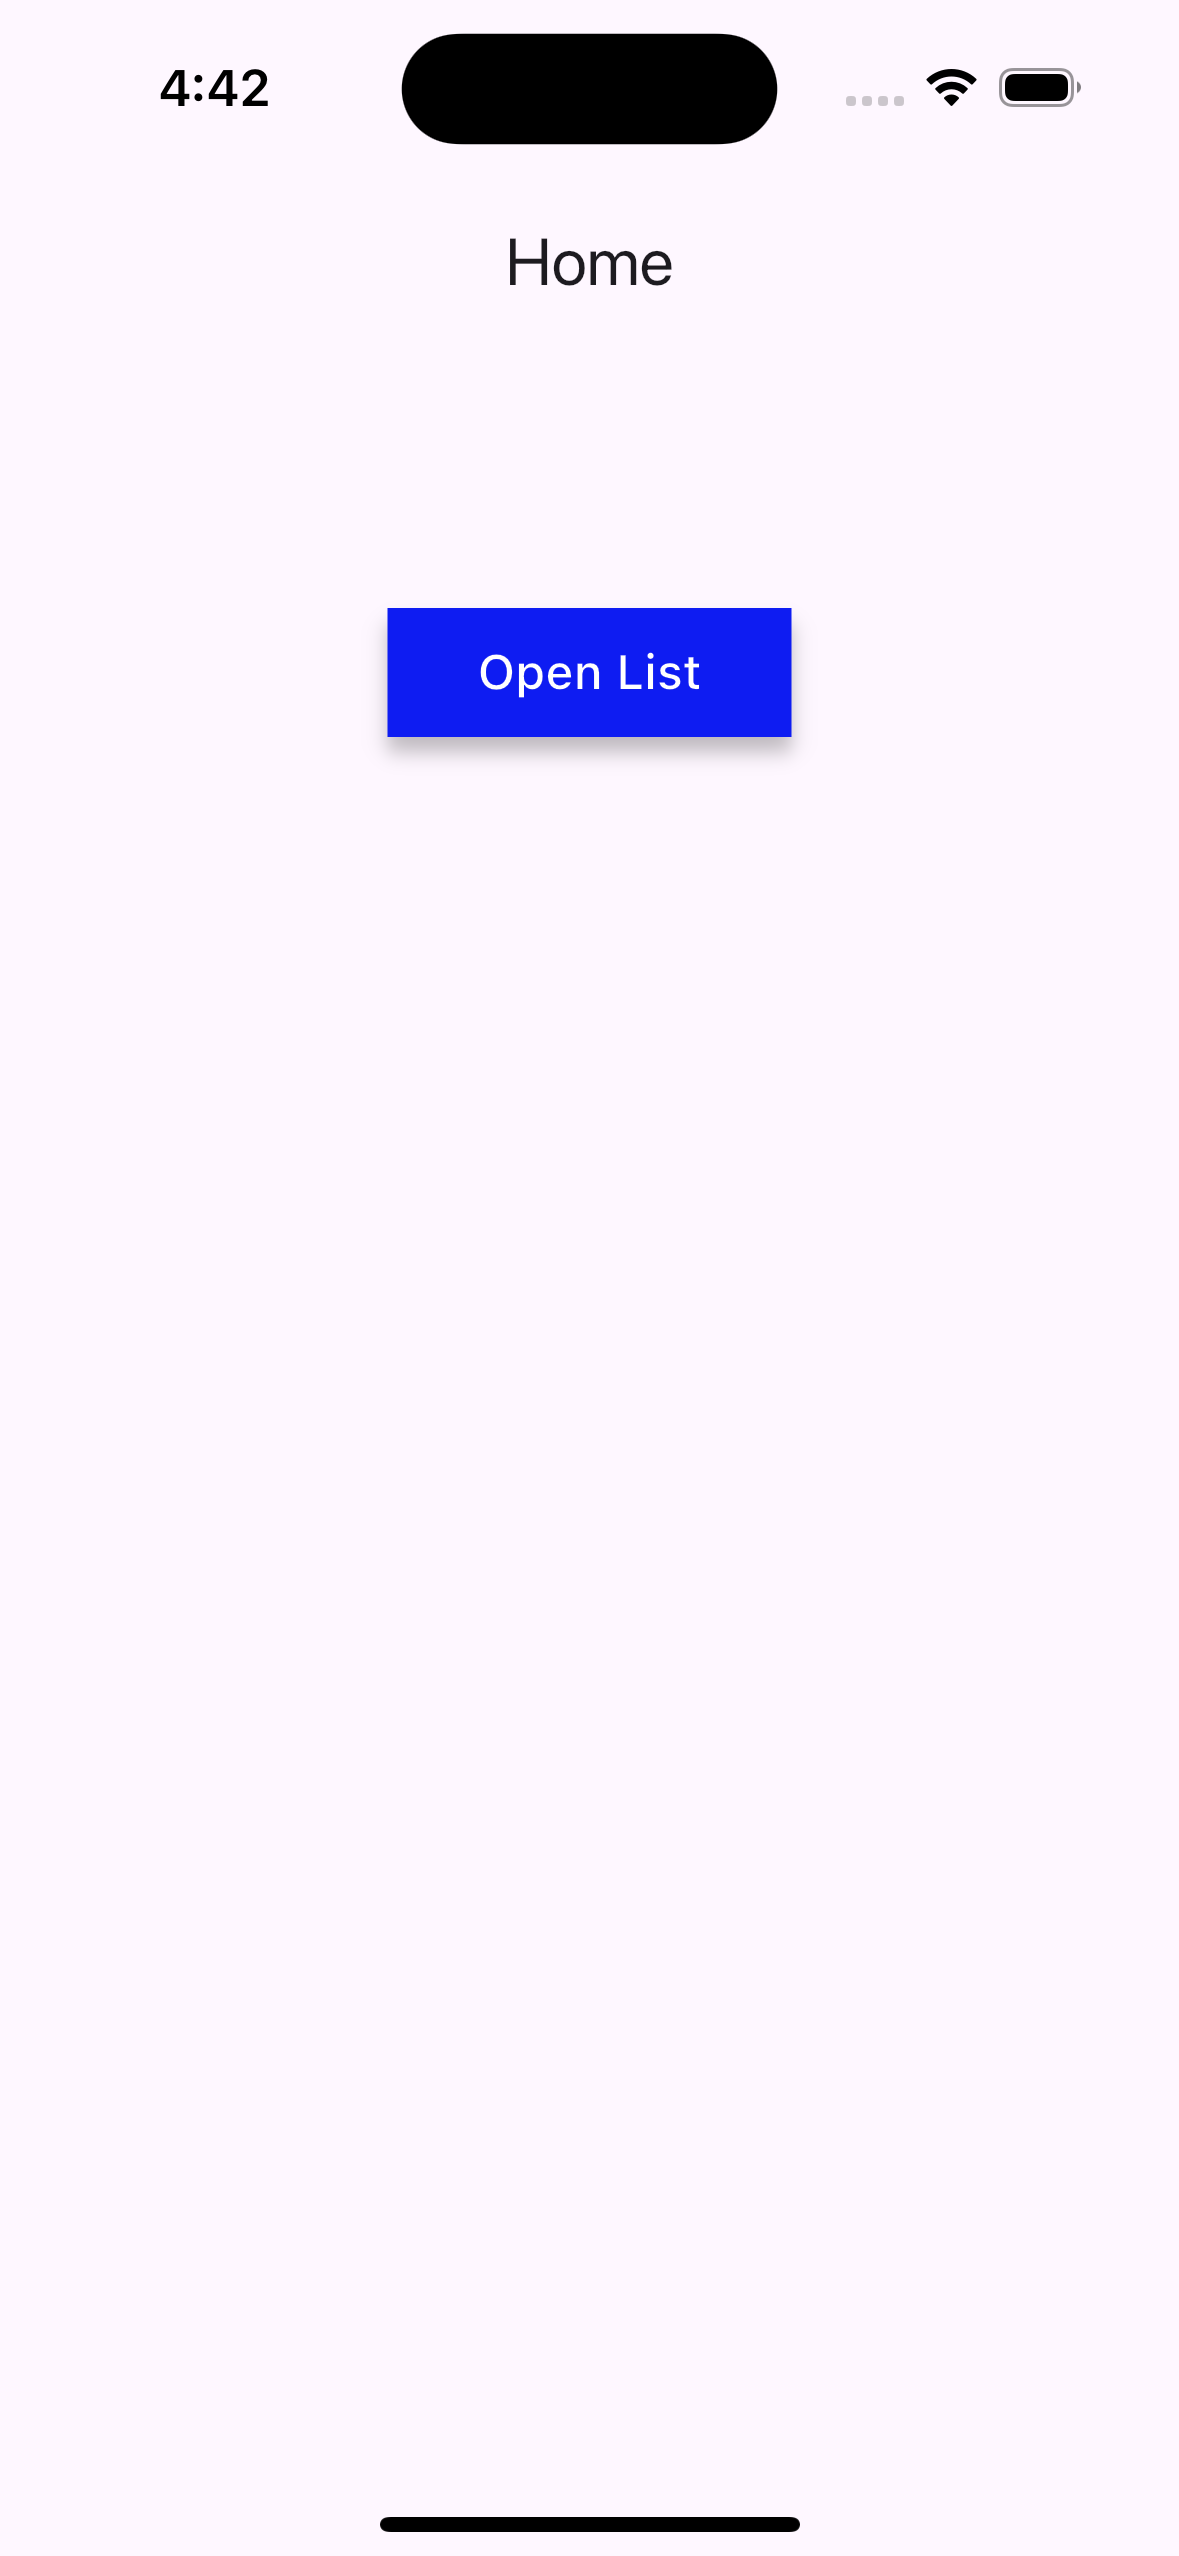
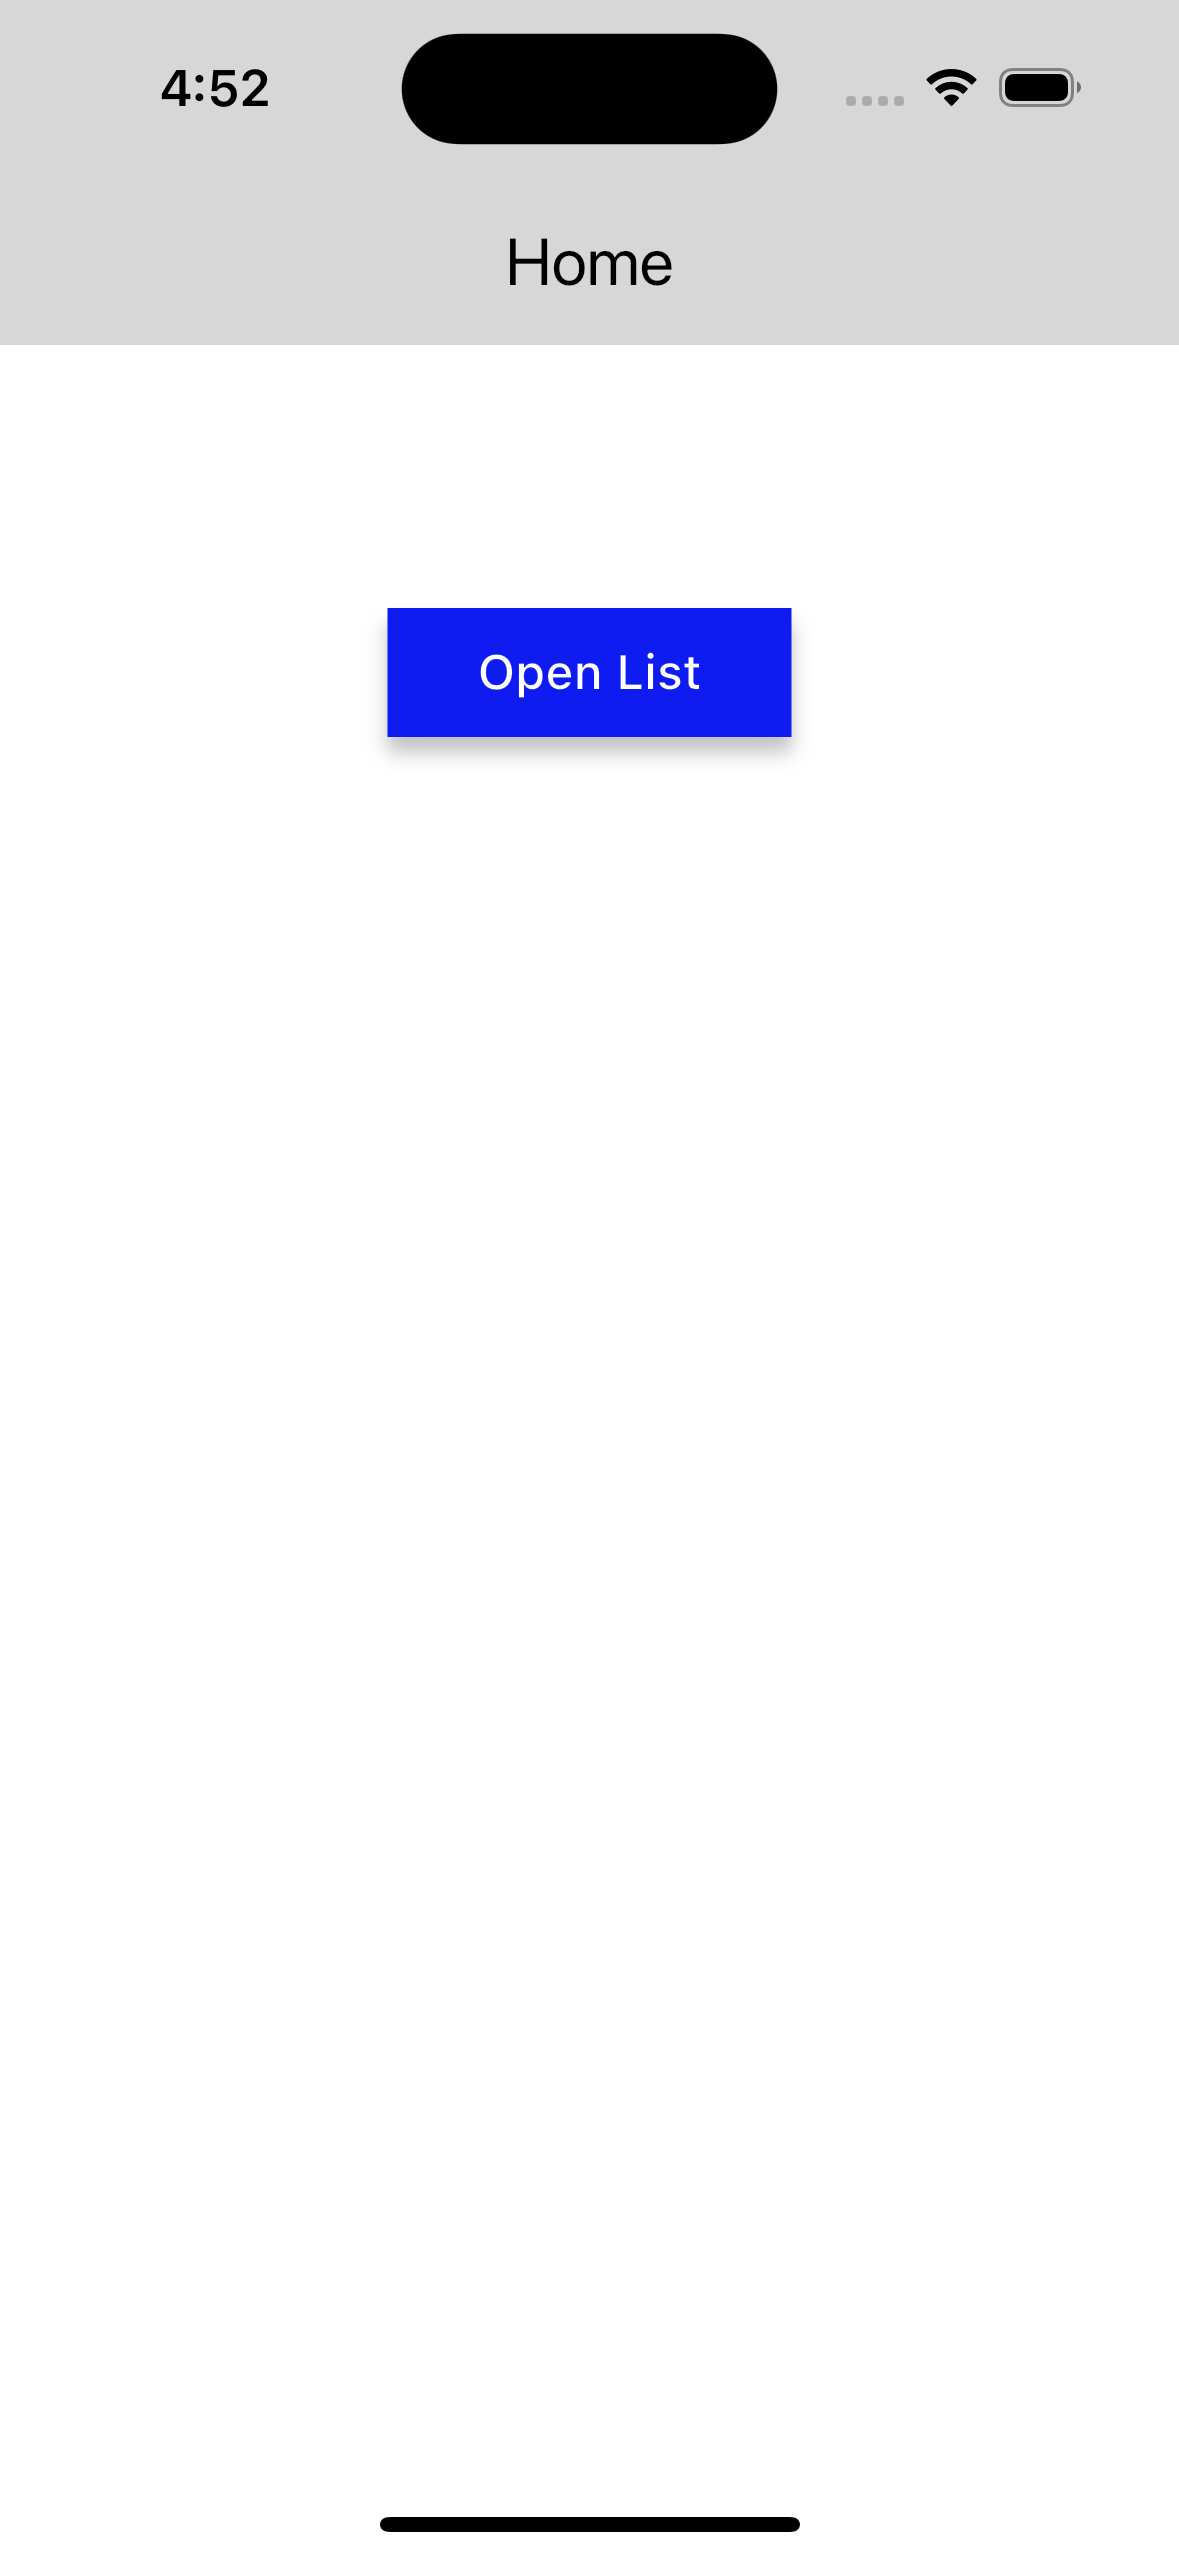
okok final done

Changed region(s): [[0.0, 0.0, 1.0, 0.1545]]

diff --git a/lib/main.dart b/lib/main.dart
@@ -19,6 +19,14 @@ class MoviesApp extends StatelessWidget {
     return GetMaterialApp(
       debugShowCheckedModeBanner: false,
       title: 'Movie App',
+      theme: ThemeData(
+        primaryColor: const Color(0xFFD7D7D7),
+        scaffoldBackgroundColor: Colors.white,
+        appBarTheme: const AppBarTheme(
+          backgroundColor: Color(0xFFD7D7D7),
+          foregroundColor: Colors.black,
+        ),
+      ),
       initialRoute: '/',
       getPages: [
         GetPage(name: '/', page: () => const HomeScreen()),
